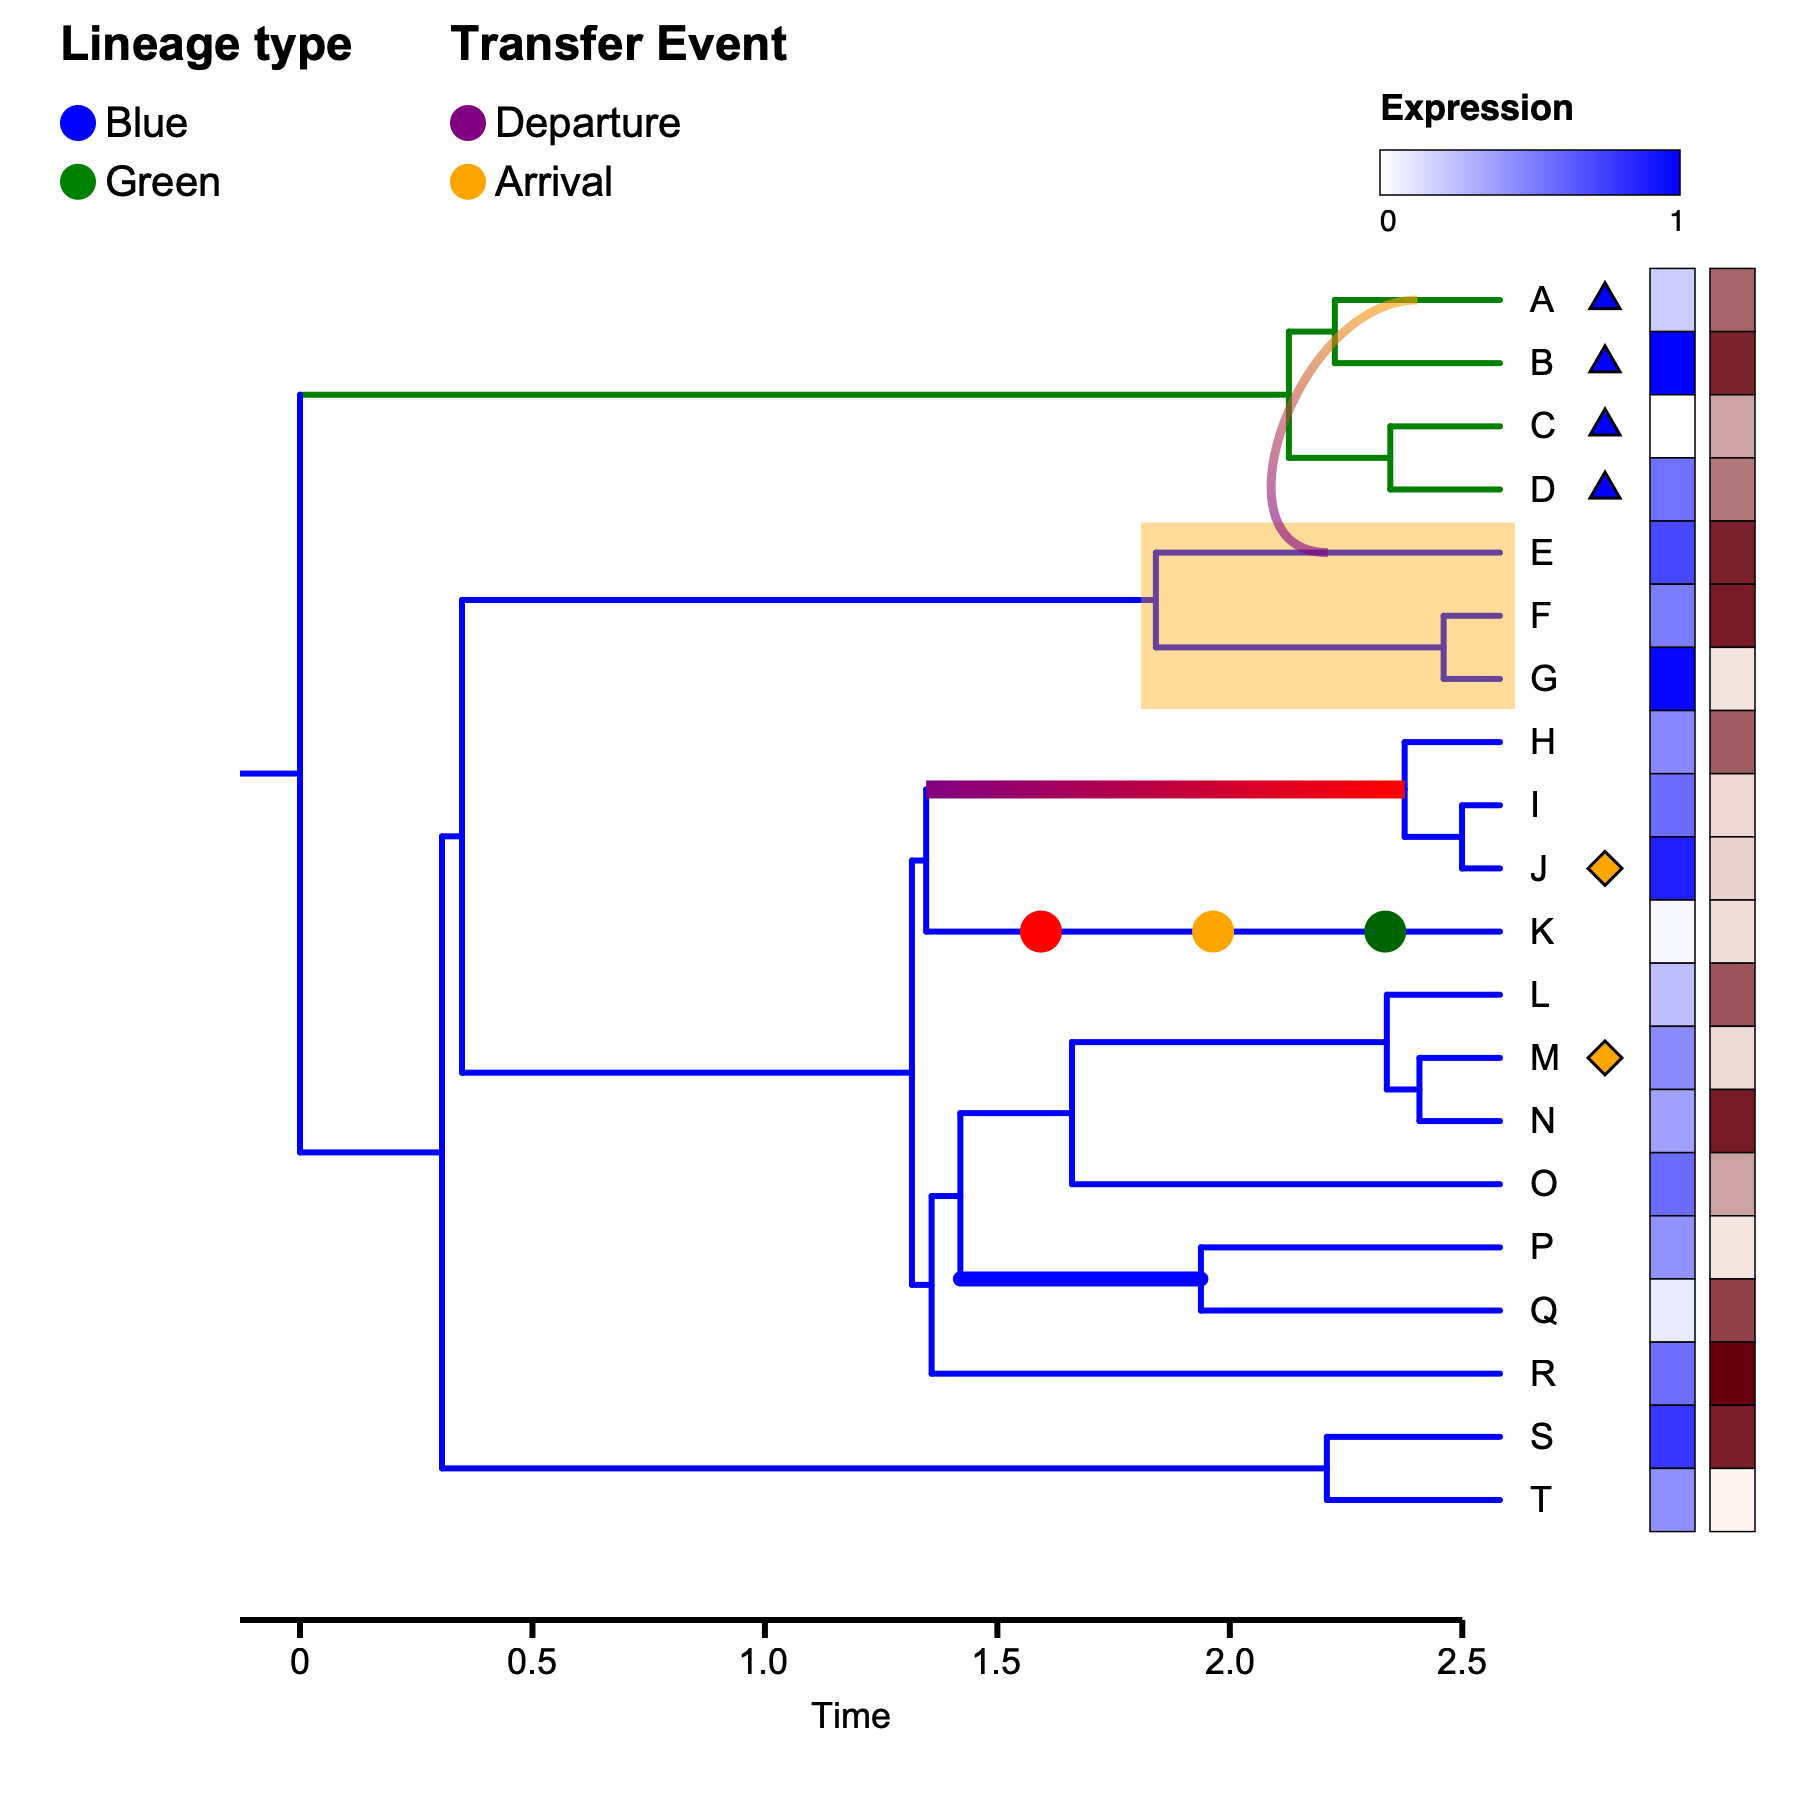
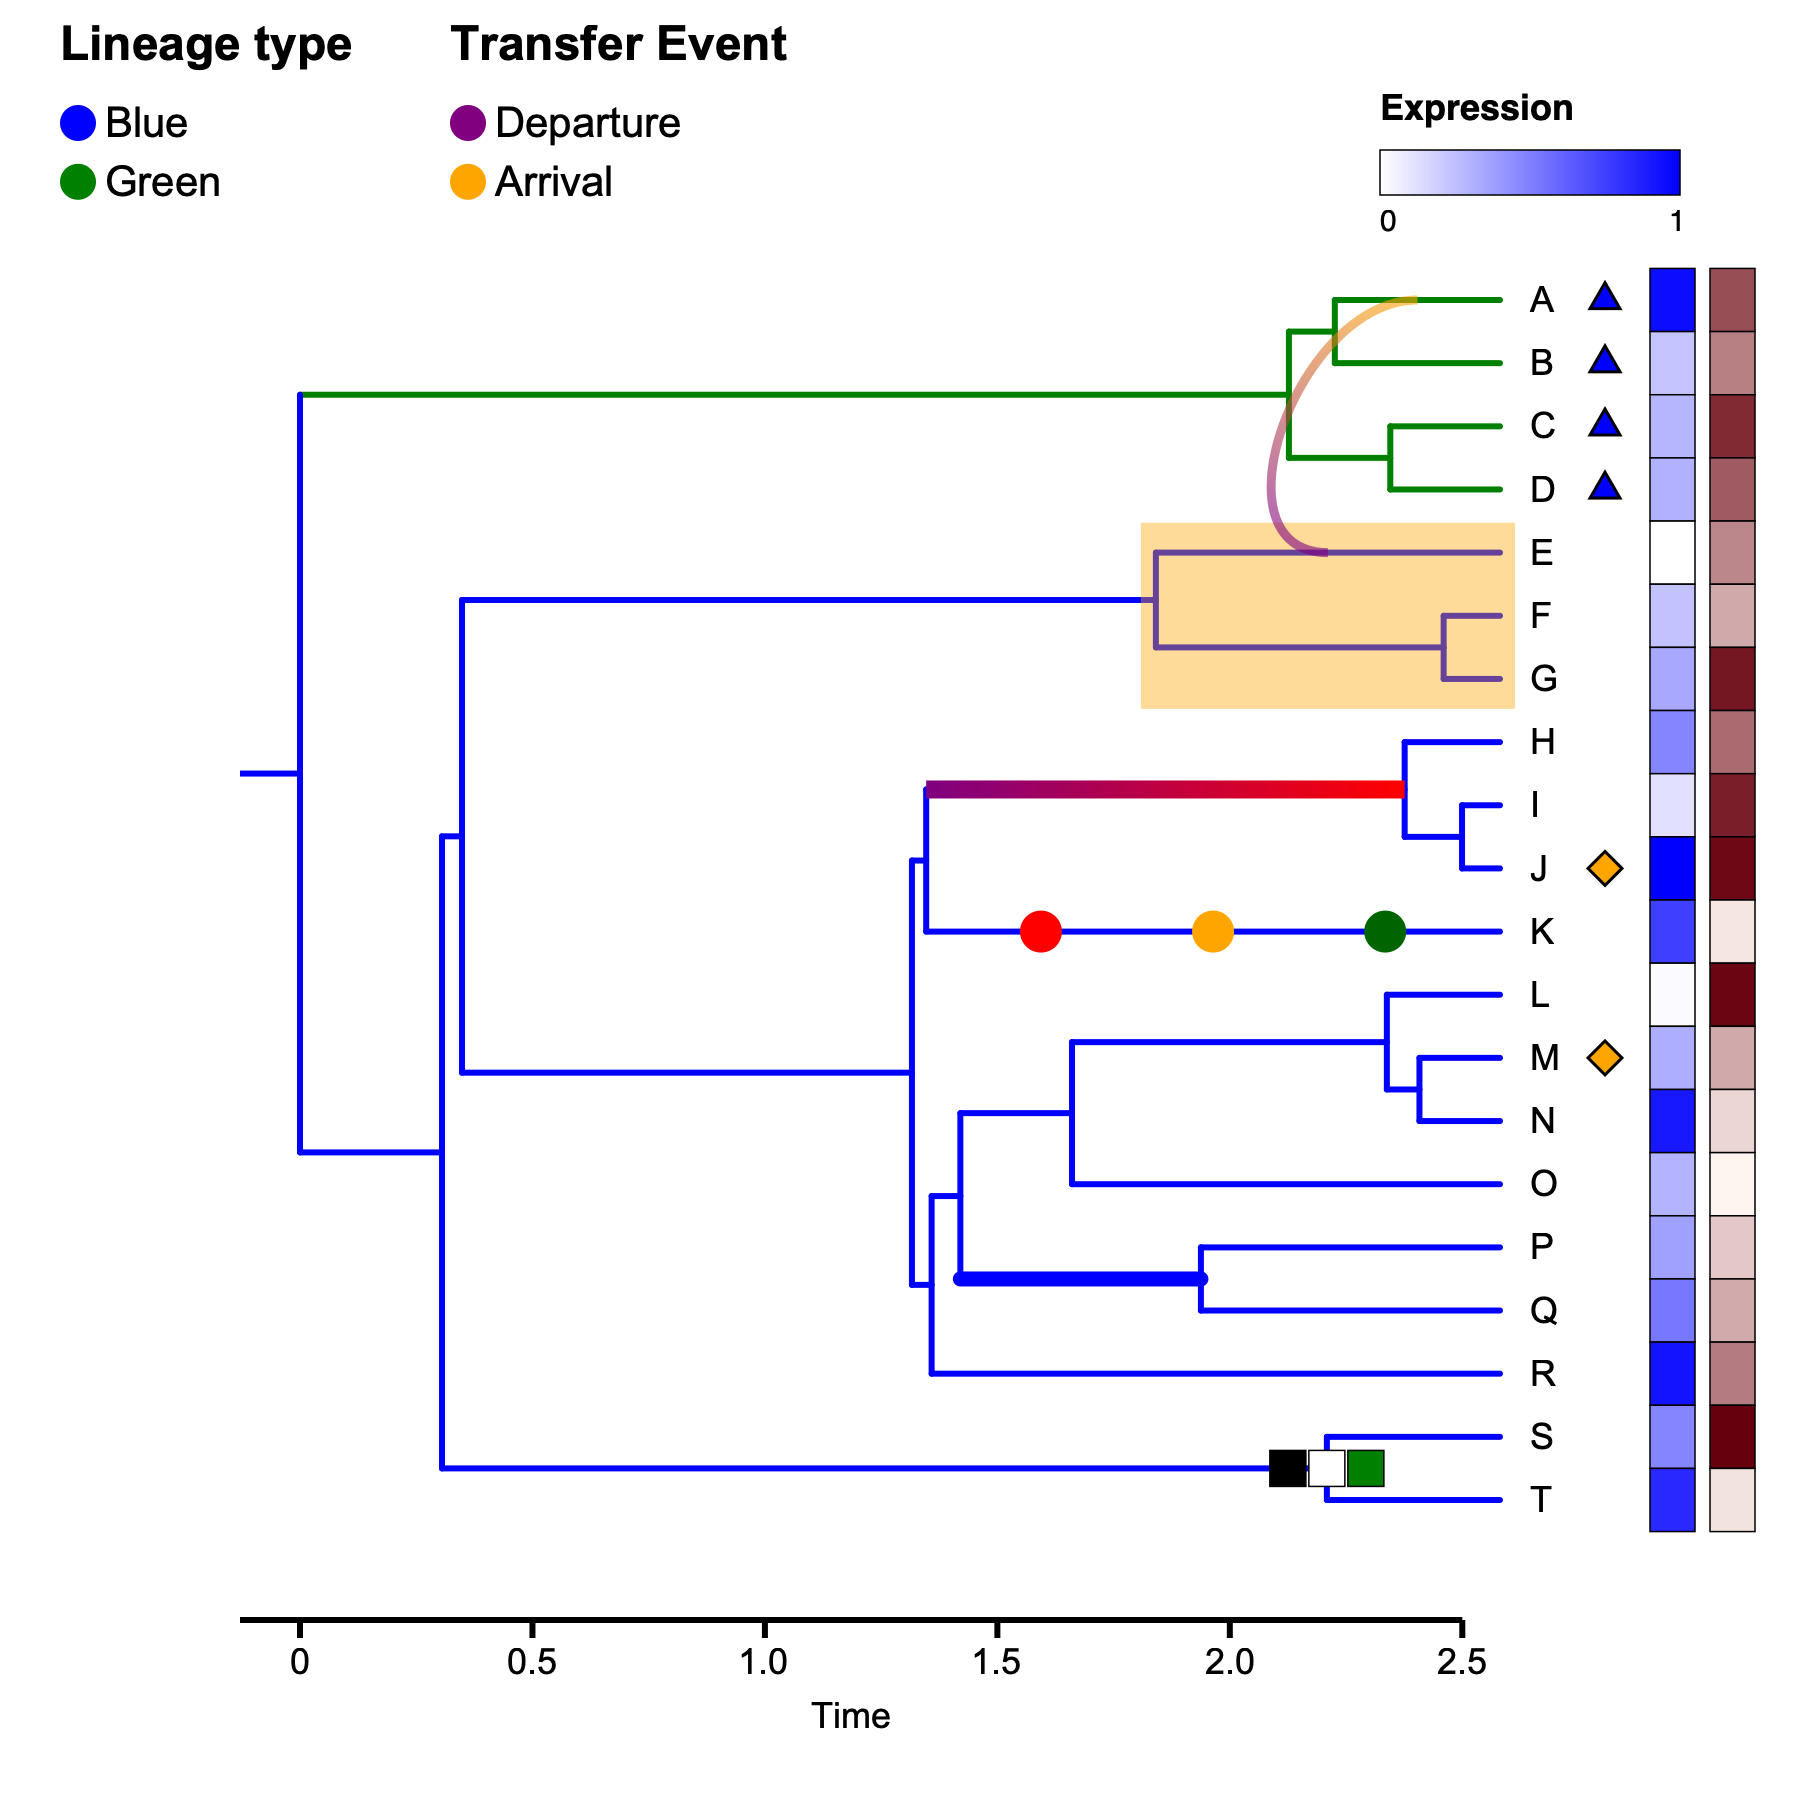
Adding trait strip functionality

Changed region(s): [[0.9022, 0.1244, 0.9956, 0.8711], [0.6844, 0.8089, 0.7778, 0.84]]

diff --git a/src/phylustrator/drawing/radial.py b/src/phylustrator/drawing/radial.py
@@ -292,6 +292,60 @@ class RadialTreeDrawer(BaseDrawer):
                                     s.get("stroke"), s.get("stroke_width", 1.0), final_rot, s.get("opacity", 1.0))
             except: continue
 
+    def add_trait_strip(self, data, size=10, padding=1, offset=0, rotation=0, orient="radial", stroke="black", stroke_width=0.5):
+        """
+        Draws a strip of adjacent colored squares at nodes, aligned with the radial layout.
+        
+        Args:
+            data (dict): Mapping of {node_name: [color1, color2, ...]}.
+            size (float): Side length of each square.
+            padding (float): Gap between squares.
+            offset (float): Radial distance offset from the node.
+            rotation (float): Manual rotation offset.
+            orient (str): "radial" (strip points out) or "perp" (strip is tangential/perpendicular).
+            stroke (str): Border color.
+            stroke_width (float): Border thickness.
+        """
+        self._pre_flight_check()
+        for item, colors in data.items():
+            if not colors: continue
+            try:
+                node = self.t & item if isinstance(item, str) else item
+                node_ang = self._rot_ang(node.angle)
+                
+                # Calculate center position of the strip
+                cx, cy = polar_to_cartesian(node_ang, node.rad + offset)
+                
+                n = len(colors)
+                total_len = n * size + (n - 1) * padding
+                
+                # Determine automatic rotation based on tree geometry
+                if orient == "radial":
+                    base_angle = node_ang
+                elif orient == "perp" or orient == "tangential":
+                    base_angle = node_ang + 90
+                else: 
+                    base_angle = 0 # Absolute screen coordinates
+                
+                final_angle = base_angle + rotation
+                
+                # Start positions relative to the center (cx, cy)
+                start_local_x = -total_len / 2
+                start_local_y = -size / 2
+                
+                for i, color in enumerate(colors):
+                    local_x = start_local_x + i * (size + padding)
+                    
+                    self.drawing.append(draw.Rectangle(
+                        cx + local_x, cy + start_local_y,
+                        size, size,
+                        fill=color,
+                        stroke=stroke,
+                        stroke_width=stroke_width,
+                        transform=f"rotate({final_angle},{cx},{cy})"
+                    ))
+            except: continue
+
     def add_node_shapes(self, nodes, shape="circle", fill="red", r=5.0, stroke=None, stroke_width=1.0, rotation=0, dx=0, dy=0, orient=False):
         """
         Adds geometric markers centered on specific node positions.

diff --git a/src/phylustrator/drawing/vertical.py b/src/phylustrator/drawing/vertical.py
@@ -297,6 +297,54 @@ class VerticalTreeDrawer(BaseDrawer):
                                     s.get("stroke"), s.get("stroke_width", 1.0), rot, s.get("opacity", 1.0))
             except: continue
 
+    def add_trait_strip(self, data, size=10, padding=1, offset_x=0, offset_y=0, rotation=0, stroke="black", stroke_width=0.5):
+        """
+        Draws a strip of adjacent colored squares (traits) centered at specific nodes.
+        
+        Args:
+            data (dict): Mapping of {node_name: [color1, color2, ...]}.
+            size (float): Side length of each square.
+            padding (float): Gap between squares.
+            offset_x (float): Shift in X pixels.
+            offset_y (float): Shift in Y pixels.
+            rotation (float): Rotation of the entire strip in degrees.
+            stroke (str): Border color for the squares.
+            stroke_width (float): Border thickness.
+        """
+        self._pre_flight_check()
+        for item, colors in data.items():
+            if not colors: continue
+            try:
+                node = self.t & item if isinstance(item, str) else item
+                cx, cy = self._node_xy(node)
+                
+                # Center point for the strip
+                base_x = cx + offset_x
+                base_y = cy + offset_y
+                
+                # Calculate total width to center the strip accurately
+                n = len(colors)
+                total_w = n * size + (n - 1) * padding
+                
+                # Starting position (local to the rotation center)
+                start_x = -total_w / 2
+                start_y = -size / 2
+                
+                for i, color in enumerate(colors):
+                    # Calculate local offset for this specific square
+                    local_x = start_x + i * (size + padding)
+                    
+                    # Draw rectangle rotated around the base point (base_x, base_y)
+                    self.drawing.append(draw.Rectangle(
+                        base_x + local_x, base_y + start_y, 
+                        size, size, 
+                        fill=color,
+                        stroke=stroke,
+                        stroke_width=stroke_width,
+                        transform=f"rotate({rotation},{base_x},{base_y})"
+                    ))
+            except: continue
+
     def add_time_axis(self, ticks, label="Time", tick_labels=None, tick_size=6.0, padding=20.0, y_offset=0.0, stroke_width=2.0, grid=False):
         """
         Adds a linear axis at the bottom to represent time or distance.